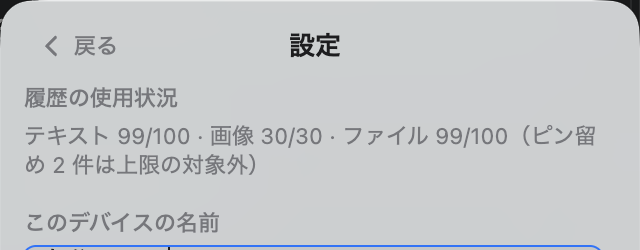
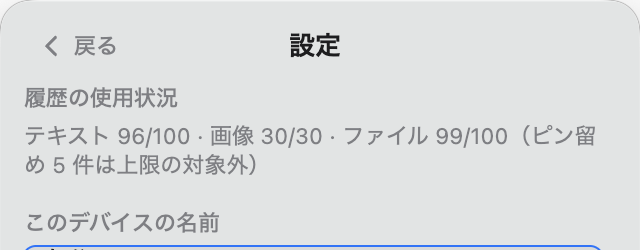
Enhance pinned items functionality and update portfolio files
- Added functionality to pin frequently referenced items such as QA account, payment API key, and Wi-Fi password in main.js.
- Updated index.html and portfolio files with additional document entries, including various reports, invoices, and design guidelines.
- Updated binary image files in public and portfolio directories.

diff --git a/site/portfolio/index.html b/site/portfolio/index.html
@@ -550,7 +550,75 @@
     { group: '9月12日 (土)', kind: 'file', name: '検収書_9月分.pdf', meta: 'PDF書類 · 13:01', icon: ICON_DIR + 'file-pdf.png', device: '自宅iMac', copy: '検収書_9月分.pdf' },
     { group: '9月11日 (金)', kind: 'file', name: '議事録_商店会訪問.txt', meta: '標準テキスト書類 · 12:01', icon: ICON_DIR + 'file-txt.png', device: '自宅iMac', copy: '議事録_商店会訪問.txt' },
     { group: '9月10日 (木)', kind: 'file', name: 'リリースノート_v1.2.txt', meta: '標準テキスト書類 · 17:01', icon: ICON_DIR + 'file-txt.png', device: '会社用PC', copy: 'リリースノート_v1.2.txt' },
-    { group: '9月10日 (木)', kind: 'file', name: '提案資料_リニューアル方針.pptx', meta: 'PowerPoint プレゼンテーション (.pptx) · 15:01', icon: ICON_DIR + 'file-pptx.png', copy: '提案資料_リニューアル方針.pptx' }
+    { group: '9月10日 (木)', kind: 'file', name: '提案資料_リニューアル方針.pptx', meta: 'PowerPoint プレゼンテーション (.pptx) · 15:01', icon: ICON_DIR + 'file-pptx.png', copy: '提案資料_リニューアル方針.pptx' },
+    { group: "8月31日 (月)", kind: 'file', name: "障害報告書_0820.docx", meta: "Microsoft Word document (.docx) · 20:54", icon: ICON_DIR + "file-docx.png", copy: "障害報告書_0820.docx" },
+    { group: "8月31日 (月)", kind: 'file', name: "請求書_9月.pdf", meta: "PDF書類 · 18:54", icon: ICON_DIR + "file-pdf.png", device: '会社用PC', copy: "請求書_9月.pdf" },
+    { group: "8月31日 (月)", kind: 'file', name: "デザインガイドライン_v1.5.pdf", meta: "PDF書類 · 15:54", icon: ICON_DIR + "file-pdf.png", device: '自宅iMac', copy: "デザインガイドライン_v1.5.pdf" },
+    { group: "8月31日 (月)", kind: 'file', name: "週次レポート_W36.pptx", meta: "PowerPoint プレゼンテーション (.pptx) · 14:54", icon: ICON_DIR + "file-pptx.png", copy: "週次レポート_W36.pptx" },
+    { group: "8月31日 (月)", kind: 'file', name: "見積比較_他社_初回版.xlsx", meta: "Microsoft Excel Workbook (.xlsx) · 10:54", icon: ICON_DIR + "file-xlsx.png", device: '会社用PC', copy: "見積比較_他社_初回版.xlsx" },
+    { group: "8月31日 (月)", kind: 'file', name: "テスト仕様書_カート機能.xlsx", meta: "Microsoft Excel Workbook (.xlsx) · 07:54", icon: ICON_DIR + "file-xlsx.png", device: '自宅iMac', copy: "テスト仕様書_カート機能.xlsx" },
+    { group: "8月30日 (日)", kind: 'file', name: "APIキー管理表.xlsx", meta: "Microsoft Excel Workbook (.xlsx) · 20:54", icon: ICON_DIR + "file-xlsx.png", copy: "APIキー管理表.xlsx" },
+    { group: "8月30日 (日)", kind: 'file', name: "障害報告書_0828.docx", meta: "Microsoft Word document (.docx) · 17:54", icon: ICON_DIR + "file-docx.png", device: '会社用PC', copy: "障害報告書_0828.docx" },
+    { group: "8月30日 (日)", kind: 'file', name: "契約更新のご案内_下書き.docx", meta: "Microsoft Word document (.docx) · 14:54", icon: ICON_DIR + "file-docx.png", device: '自宅iMac', copy: "契約更新のご案内_下書き.docx" },
+    { group: "8月30日 (日)", kind: 'file', name: "リリースノート_v1.1.txt", meta: "標準テキスト書類 · 12:54", icon: ICON_DIR + "file-txt.png", copy: "リリースノート_v1.1.txt" },
+    { group: "8月30日 (日)", kind: 'file', name: "請求書送付リスト_9月.xlsx", meta: "Microsoft Excel Workbook (.xlsx) · 09:54", icon: ICON_DIR + "file-xlsx.png", device: '会社用PC', copy: "請求書送付リスト_9月.xlsx" },
+    { group: "8月30日 (日)", kind: 'file', name: "プロジェクト計画書_v1.pptx", meta: "PowerPoint プレゼンテーション (.pptx) · 06:54", icon: ICON_DIR + "file-pptx.png", device: '自宅iMac', copy: "プロジェクト計画書_v1.pptx" },
+    { group: "8月29日 (土)", kind: 'file', name: "バックアップ手順.txt", meta: "標準テキスト書類 · 20:54", icon: ICON_DIR + "file-txt.png", copy: "バックアップ手順.txt" },
+    { group: "8月29日 (土)", kind: 'file', name: "契約書_業務委託_旧版.docx", meta: "Microsoft Word document (.docx) · 16:54", icon: ICON_DIR + "file-docx.png", device: '会社用PC', copy: "契約書_業務委託_旧版.docx" },
+    { group: "8月29日 (土)", kind: 'file', name: "顧客リスト_8月版.xlsx", meta: "Microsoft Excel Workbook (.xlsx) · 13:54", icon: ICON_DIR + "file-xlsx.png", device: '自宅iMac', copy: "顧客リスト_8月版.xlsx" },
+    { group: "8月29日 (土)", kind: 'file', name: "要件定義書_v3.docx", meta: "Microsoft Word document (.docx) · 11:54", icon: ICON_DIR + "file-docx.png", copy: "要件定義書_v3.docx" },
+    { group: "8月29日 (土)", kind: 'file', name: "NDA_秘密保持契約_控え.pdf", meta: "PDF書類 · 08:54", icon: ICON_DIR + "file-pdf.png", device: '会社用PC', copy: "NDA_秘密保持契約_控え.pdf" },
+    { group: "8月29日 (土)", kind: 'file', name: "アイコンセット_v1.png", meta: "PNG画像 · 05:54", thumb: ICON_DIR + "thumb-logo.png", device: '自宅iMac', copy: "アイコンセット_v1.png" },
+    { group: "8月28日 (金)", kind: 'file', name: "画面遷移図.png", meta: "PNG画像 · 20:54", thumb: ICON_DIR + "thumb-banner.png", copy: "画面遷移図.png" },
+    { group: "8月28日 (金)", kind: 'file', name: "経費精算_8月.xlsx", meta: "Microsoft Excel Workbook (.xlsx) · 18:54", icon: ICON_DIR + "file-xlsx.png", device: '会社用PC', copy: "経費精算_8月.xlsx" },
+    { group: "8月28日 (金)", kind: 'file', name: "週次レポート_W35.pptx", meta: "PowerPoint プレゼンテーション (.pptx) · 15:54", icon: ICON_DIR + "file-pptx.png", copy: "週次レポート_W35.pptx" },
+    { group: "8月28日 (金)", kind: 'file', name: "テスト仕様書_検索機能.xlsx", meta: "Microsoft Excel Workbook (.xlsx) · 14:54", icon: ICON_DIR + "file-xlsx.png", device: '自宅iMac', copy: "テスト仕様書_検索機能.xlsx" },
+    { group: "8月28日 (金)", kind: 'file', name: "ロゴ_v3.png", meta: "PNG画像 · 11:54", thumb: ICON_DIR + "thumb-logo.png", device: '会社用PC', copy: "ロゴ_v3.png" },
+    { group: "8月28日 (金)", kind: 'file', name: "契約更新のご案内_最終.docx", meta: "Microsoft Word document (.docx) · 06:54", icon: ICON_DIR + "file-docx.png", device: '自宅iMac', copy: "契約更新のご案内_最終.docx" },
+    { group: "8月27日 (木)", kind: 'file', name: "commit-log_export.txt", meta: "標準テキスト書類 · 20:54", icon: ICON_DIR + "file-txt.png", copy: "commit-log_export.txt" },
+    { group: "8月27日 (木)", kind: 'file', name: "名刺デザイン案_旧.png", meta: "PNG画像 · 17:54", thumb: ICON_DIR + "thumb-banner.png", device: '会社用PC', copy: "名刺デザイン案_旧.png" },
+    { group: "8月27日 (木)", kind: 'file', name: "環境変数一覧_本番.xlsx", meta: "Microsoft Excel Workbook (.xlsx) · 13:54", icon: ICON_DIR + "file-xlsx.png", copy: "環境変数一覧_本番.xlsx" },
+    { group: "8月27日 (木)", kind: 'file', name: "プロジェクト計画書_v2.pptx", meta: "PowerPoint プレゼンテーション (.pptx) · 12:54", icon: ICON_DIR + "file-pptx.png", device: '自宅iMac', copy: "プロジェクト計画書_v2.pptx" },
+    { group: "8月27日 (木)", kind: 'file', name: "請求書_8月.pdf", meta: "PDF書類 · 09:54", icon: ICON_DIR + "file-pdf.png", device: '会社用PC', copy: "請求書_8月.pdf" },
+    { group: "8月27日 (木)", kind: 'file', name: "顧客リスト_7月版.xlsx", meta: "Microsoft Excel Workbook (.xlsx) · 04:54", icon: ICON_DIR + "file-xlsx.png", device: '自宅iMac', copy: "顧客リスト_7月版.xlsx" },
+    { group: "8月26日 (水)", kind: 'file', name: "AIレビュー_コード規約案.txt", meta: "標準テキスト書類 · 20:54", icon: ICON_DIR + "file-txt.png", copy: "AIレビュー_コード規約案.txt" },
+    { group: "8月26日 (水)", kind: 'file', name: "見積比較_他社_最終版.xlsx", meta: "Microsoft Excel Workbook (.xlsx) · 16:54", icon: ICON_DIR + "file-xlsx.png", device: '会社用PC', copy: "見積比較_他社_最終版.xlsx" },
+    { group: "8月26日 (水)", kind: 'file', name: "障害報告書_0806.docx", meta: "Microsoft Word document (.docx) · 14:54", icon: ICON_DIR + "file-docx.png", copy: "障害報告書_0806.docx" },
+    { group: "8月26日 (水)", kind: 'file', name: "Claude_提案文章_ドラフト.txt", meta: "標準テキスト書類 · 13:54", icon: ICON_DIR + "file-txt.png", device: '自宅iMac', copy: "Claude_提案文章_ドラフト.txt" },
+    { group: "8月26日 (水)", kind: 'file', name: "障害報告書_0815.docx", meta: "Microsoft Word document (.docx) · 10:54", icon: ICON_DIR + "file-docx.png", device: '会社用PC', copy: "障害報告書_0815.docx" },
+    { group: "8月26日 (水)", kind: 'file', name: "デザインガイドライン_初版.pdf", meta: "PDF書類 · 05:54", icon: ICON_DIR + "file-pdf.png", device: '自宅iMac', copy: "デザインガイドライン_初版.pdf" },
+    { group: "8月25日 (火)", kind: 'file', name: "見積書_ECサイト改修_v1.pdf", meta: "PDF書類 · 20:54", icon: ICON_DIR + "file-pdf.png", copy: "見積書_ECサイト改修_v1.pdf" },
+    { group: "8月25日 (火)", kind: 'file', name: "VSCode拡張機能_推奨リスト.txt", meta: "標準テキスト書類 · 18:54", icon: ICON_DIR + "file-txt.png", device: '会社用PC', copy: "VSCode拡張機能_推奨リスト.txt" },
+    { group: "8月25日 (火)", kind: 'file', name: "テスト仕様書_ログイン機能.xlsx", meta: "Microsoft Excel Workbook (.xlsx) · 14:54", icon: ICON_DIR + "file-xlsx.png", device: '自宅iMac', copy: "テスト仕様書_ログイン機能.xlsx" },
+    { group: "8月25日 (火)", kind: 'file', name: "負荷試験結果.xlsx", meta: "Microsoft Excel Workbook (.xlsx) · 12:54", icon: ICON_DIR + "file-xlsx.png", copy: "負荷試験結果.xlsx" },
+    { group: "8月25日 (火)", kind: 'file', name: "Claude_議事録要約_0810.txt", meta: "標準テキスト書類 · 11:54", icon: ICON_DIR + "file-txt.png", device: '会社用PC', copy: "Claude_議事録要約_0810.txt" },
+    { group: "8月25日 (火)", kind: 'file', name: "VSCode_settings_export.txt", meta: "標準テキスト書類 · 06:54", icon: ICON_DIR + "file-txt.png", device: '自宅iMac', copy: "VSCode_settings_export.txt" },
+    { group: "8月24日 (月)", kind: 'file', name: "週次レポート_W34.pptx", meta: "PowerPoint プレゼンテーション (.pptx) · 20:54", icon: ICON_DIR + "file-pptx.png", copy: "週次レポート_W34.pptx" },
+    { group: "8月24日 (月)", kind: 'file', name: "請求書送付リスト_8月.xlsx", meta: "Microsoft Excel Workbook (.xlsx) · 17:54", icon: ICON_DIR + "file-xlsx.png", device: '会社用PC', copy: "請求書送付リスト_8月.xlsx" },
+    { group: "8月24日 (月)", kind: 'file', name: "ChatGPT_文言案_エラーメッセージ.txt", meta: "標準テキスト書類 · 15:54", icon: ICON_DIR + "file-txt.png", copy: "ChatGPT_文言案_エラーメッセージ.txt" },
+    { group: "8月24日 (月)", kind: 'file', name: "プロジェクト計画書_初版.pptx", meta: "PowerPoint プレゼンテーション (.pptx) · 12:54", icon: ICON_DIR + "file-pptx.png", device: '自宅iMac', copy: "プロジェクト計画書_初版.pptx" },
+    { group: "8月24日 (月)", kind: 'file', name: "デザインガイドライン_v1.pdf", meta: "PDF書類 · 09:54", icon: ICON_DIR + "file-pdf.png", device: '会社用PC', copy: "デザインガイドライン_v1.pdf" },
+    { group: "8月24日 (月)", kind: 'file', name: "顧客リスト_6月版.xlsx", meta: "Microsoft Excel Workbook (.xlsx) · 04:54", icon: ICON_DIR + "file-xlsx.png", device: '自宅iMac', copy: "顧客リスト_6月版.xlsx" },
+    { group: "8月23日 (日)", kind: 'file', name: "バナー案_B案.png", meta: "PNG画像 · 20:54", thumb: ICON_DIR + "thumb-logo.png", copy: "バナー案_B案.png" },
+    { group: "8月23日 (日)", kind: 'file', name: "見積書_ECサイト改修_初版.pdf", meta: "PDF書類 · 16:54", icon: ICON_DIR + "file-pdf.png", device: '会社用PC', copy: "見積書_ECサイト改修_初版.pdf" },
+    { group: "8月23日 (日)", kind: 'file', name: "DB設計書_v2.docx", meta: "Microsoft Word document (.docx) · 13:54", icon: ICON_DIR + "file-docx.png", copy: "DB設計書_v2.docx" },
+    { group: "8月23日 (日)", kind: 'file', name: "アイコンセット_v2.png", meta: "PNG画像 · 13:54", thumb: ICON_DIR + "thumb-banner.png", device: '自宅iMac', copy: "アイコンセット_v2.png" },
+    { group: "8月23日 (日)", kind: 'file', name: "NDA_秘密保持契約_下書き.docx", meta: "Microsoft Word document (.docx) · 10:54", icon: ICON_DIR + "file-docx.png", device: '会社用PC', copy: "NDA_秘密保持契約_下書き.docx" },
+    { group: "8月23日 (日)", kind: 'file', name: "ChatGPT_要件整理メモ.txt", meta: "標準テキスト書類 · 05:54", icon: ICON_DIR + "file-txt.png", device: '自宅iMac', copy: "ChatGPT_要件整理メモ.txt" },
+    { group: "8月22日 (土)", kind: 'file', name: "リファクタリング計画.txt", meta: "標準テキスト書類 · 20:54", icon: ICON_DIR + "file-txt.png", copy: "リファクタリング計画.txt" },
+    { group: "8月22日 (土)", kind: 'file', name: "経費精算_7月.xlsx", meta: "Microsoft Excel Workbook (.xlsx) · 18:54", icon: ICON_DIR + "file-xlsx.png", device: '会社用PC', copy: "経費精算_7月.xlsx" },
+    { group: "8月22日 (土)", kind: 'file', name: "テスト仕様書_会員登録.xlsx", meta: "Microsoft Excel Workbook (.xlsx) · 14:54", icon: ICON_DIR + "file-xlsx.png", device: '自宅iMac', copy: "テスト仕様書_会員登録.xlsx" },
+    { group: "8月22日 (土)", kind: 'file', name: "納品リスト_9月.xlsx", meta: "Microsoft Excel Workbook (.xlsx) · 11:54", icon: ICON_DIR + "file-xlsx.png", copy: "納品リスト_9月.xlsx" },
+    { group: "8月22日 (土)", kind: 'file', name: "バナー案_C案.png", meta: "PNG画像 · 11:54", thumb: ICON_DIR + "thumb-logo.png", device: '会社用PC', copy: "バナー案_C案.png" },
+    { group: "8月22日 (土)", kind: 'file', name: "契約書_業務委託_ドラフト.docx", meta: "Microsoft Word document (.docx) · 06:54", icon: ICON_DIR + "file-docx.png", device: '自宅iMac', copy: "契約書_業務委託_ドラフト.docx" },
+    { group: "8月21日 (金)", kind: 'file', name: "週次レポート_W33.pptx", meta: "PowerPoint プレゼンテーション (.pptx) · 20:54", icon: ICON_DIR + "file-pptx.png", copy: "週次レポート_W33.pptx" },
+    { group: "8月21日 (金)", kind: 'file', name: "障害報告書_0801.docx", meta: "Microsoft Word document (.docx) · 17:54", icon: ICON_DIR + "file-docx.png", device: '会社用PC', copy: "障害報告書_0801.docx" },
+    { group: "8月21日 (金)", kind: 'file', name: "プロジェクト計画書_議事録反映版.pptx", meta: "PowerPoint プレゼンテーション (.pptx) · 12:54", icon: ICON_DIR + "file-pptx.png", device: '自宅iMac', copy: "プロジェクト計画書_議事録反映版.pptx" },
+    { group: "8月21日 (金)", kind: 'file', name: "顧客リスト_5月版.xlsx", meta: "Microsoft Excel Workbook (.xlsx) · 04:54", icon: ICON_DIR + "file-xlsx.png", device: '自宅iMac', copy: "顧客リスト_5月版.xlsx" },
+    { group: "8月20日 (木)", kind: 'file', name: "旧ロゴ_v2.png", meta: "PNG画像 · 20:54", thumb: ICON_DIR + "thumb-banner.png", copy: "旧ロゴ_v2.png" },
+    { group: "8月20日 (木)", kind: 'file', name: "請求書_7月.pdf", meta: "PDF書類 · 20:54", icon: ICON_DIR + "file-pdf.png", device: '会社用PC', copy: "請求書_7月.pdf" },
+    { group: "8月20日 (木)", kind: 'file', name: "バナー案_初期検討.png", meta: "PNG画像 · 13:54", thumb: ICON_DIR + "thumb-logo.png", device: '自宅iMac', copy: "バナー案_初期検討.png" },
+    { group: "8月19日 (水)", kind: 'file', name: "引継ぎメモ_初期構築.txt", meta: "標準テキスト書類 · 20:54", icon: ICON_DIR + "file-txt.png", copy: "引継ぎメモ_初期構築.txt" }
   ];
 
   var root = document.getElementById('brd');

diff --git a/site/public/index.html b/site/public/index.html
@@ -459,7 +459,75 @@
     { group: '9月12日 (土)', kind: 'file', name: '検収書_9月分.pdf', meta: 'PDF書類 · 13:01', icon: ICON_DIR + 'file-pdf.png', device: '自宅iMac', copy: '検収書_9月分.pdf' },
     { group: '9月11日 (金)', kind: 'file', name: '議事録_商店会訪問.txt', meta: '標準テキスト書類 · 12:01', icon: ICON_DIR + 'file-txt.png', device: '自宅iMac', copy: '議事録_商店会訪問.txt' },
     { group: '9月10日 (木)', kind: 'file', name: 'リリースノート_v1.2.txt', meta: '標準テキスト書類 · 17:01', icon: ICON_DIR + 'file-txt.png', device: '会社用PC', copy: 'リリースノート_v1.2.txt' },
-    { group: '9月10日 (木)', kind: 'file', name: '提案資料_リニューアル方針.pptx', meta: 'PowerPoint プレゼンテーション (.pptx) · 15:01', icon: ICON_DIR + 'file-pptx.png', copy: '提案資料_リニューアル方針.pptx' }
+    { group: '9月10日 (木)', kind: 'file', name: '提案資料_リニューアル方針.pptx', meta: 'PowerPoint プレゼンテーション (.pptx) · 15:01', icon: ICON_DIR + 'file-pptx.png', copy: '提案資料_リニューアル方針.pptx' },
+    { group: "8月31日 (月)", kind: 'file', name: "障害報告書_0820.docx", meta: "Microsoft Word document (.docx) · 20:54", icon: ICON_DIR + "file-docx.png", copy: "障害報告書_0820.docx" },
+    { group: "8月31日 (月)", kind: 'file', name: "請求書_9月.pdf", meta: "PDF書類 · 18:54", icon: ICON_DIR + "file-pdf.png", device: '会社用PC', copy: "請求書_9月.pdf" },
+    { group: "8月31日 (月)", kind: 'file', name: "デザインガイドライン_v1.5.pdf", meta: "PDF書類 · 15:54", icon: ICON_DIR + "file-pdf.png", device: '自宅iMac', copy: "デザインガイドライン_v1.5.pdf" },
+    { group: "8月31日 (月)", kind: 'file', name: "週次レポート_W36.pptx", meta: "PowerPoint プレゼンテーション (.pptx) · 14:54", icon: ICON_DIR + "file-pptx.png", copy: "週次レポート_W36.pptx" },
+    { group: "8月31日 (月)", kind: 'file', name: "見積比較_他社_初回版.xlsx", meta: "Microsoft Excel Workbook (.xlsx) · 10:54", icon: ICON_DIR + "file-xlsx.png", device: '会社用PC', copy: "見積比較_他社_初回版.xlsx" },
+    { group: "8月31日 (月)", kind: 'file', name: "テスト仕様書_カート機能.xlsx", meta: "Microsoft Excel Workbook (.xlsx) · 07:54", icon: ICON_DIR + "file-xlsx.png", device: '自宅iMac', copy: "テスト仕様書_カート機能.xlsx" },
+    { group: "8月30日 (日)", kind: 'file', name: "APIキー管理表.xlsx", meta: "Microsoft Excel Workbook (.xlsx) · 20:54", icon: ICON_DIR + "file-xlsx.png", copy: "APIキー管理表.xlsx" },
+    { group: "8月30日 (日)", kind: 'file', name: "障害報告書_0828.docx", meta: "Microsoft Word document (.docx) · 17:54", icon: ICON_DIR + "file-docx.png", device: '会社用PC', copy: "障害報告書_0828.docx" },
+    { group: "8月30日 (日)", kind: 'file', name: "契約更新のご案内_下書き.docx", meta: "Microsoft Word document (.docx) · 14:54", icon: ICON_DIR + "file-docx.png", device: '自宅iMac', copy: "契約更新のご案内_下書き.docx" },
+    { group: "8月30日 (日)", kind: 'file', name: "リリースノート_v1.1.txt", meta: "標準テキスト書類 · 12:54", icon: ICON_DIR + "file-txt.png", copy: "リリースノート_v1.1.txt" },
+    { group: "8月30日 (日)", kind: 'file', name: "請求書送付リスト_9月.xlsx", meta: "Microsoft Excel Workbook (.xlsx) · 09:54", icon: ICON_DIR + "file-xlsx.png", device: '会社用PC', copy: "請求書送付リスト_9月.xlsx" },
+    { group: "8月30日 (日)", kind: 'file', name: "プロジェクト計画書_v1.pptx", meta: "PowerPoint プレゼンテーション (.pptx) · 06:54", icon: ICON_DIR + "file-pptx.png", device: '自宅iMac', copy: "プロジェクト計画書_v1.pptx" },
+    { group: "8月29日 (土)", kind: 'file', name: "バックアップ手順.txt", meta: "標準テキスト書類 · 20:54", icon: ICON_DIR + "file-txt.png", copy: "バックアップ手順.txt" },
+    { group: "8月29日 (土)", kind: 'file', name: "契約書_業務委託_旧版.docx", meta: "Microsoft Word document (.docx) · 16:54", icon: ICON_DIR + "file-docx.png", device: '会社用PC', copy: "契約書_業務委託_旧版.docx" },
+    { group: "8月29日 (土)", kind: 'file', name: "顧客リスト_8月版.xlsx", meta: "Microsoft Excel Workbook (.xlsx) · 13:54", icon: ICON_DIR + "file-xlsx.png", device: '自宅iMac', copy: "顧客リスト_8月版.xlsx" },
+    { group: "8月29日 (土)", kind: 'file', name: "要件定義書_v3.docx", meta: "Microsoft Word document (.docx) · 11:54", icon: ICON_DIR + "file-docx.png", copy: "要件定義書_v3.docx" },
+    { group: "8月29日 (土)", kind: 'file', name: "NDA_秘密保持契約_控え.pdf", meta: "PDF書類 · 08:54", icon: ICON_DIR + "file-pdf.png", device: '会社用PC', copy: "NDA_秘密保持契約_控え.pdf" },
+    { group: "8月29日 (土)", kind: 'file', name: "アイコンセット_v1.png", meta: "PNG画像 · 05:54", thumb: ICON_DIR + "thumb-logo.png", device: '自宅iMac', copy: "アイコンセット_v1.png" },
+    { group: "8月28日 (金)", kind: 'file', name: "画面遷移図.png", meta: "PNG画像 · 20:54", thumb: ICON_DIR + "thumb-banner.png", copy: "画面遷移図.png" },
+    { group: "8月28日 (金)", kind: 'file', name: "経費精算_8月.xlsx", meta: "Microsoft Excel Workbook (.xlsx) · 18:54", icon: ICON_DIR + "file-xlsx.png", device: '会社用PC', copy: "経費精算_8月.xlsx" },
+    { group: "8月28日 (金)", kind: 'file', name: "週次レポート_W35.pptx", meta: "PowerPoint プレゼンテーション (.pptx) · 15:54", icon: ICON_DIR + "file-pptx.png", copy: "週次レポート_W35.pptx" },
+    { group: "8月28日 (金)", kind: 'file', name: "テスト仕様書_検索機能.xlsx", meta: "Microsoft Excel Workbook (.xlsx) · 14:54", icon: ICON_DIR + "file-xlsx.png", device: '自宅iMac', copy: "テスト仕様書_検索機能.xlsx" },
+    { group: "8月28日 (金)", kind: 'file', name: "ロゴ_v3.png", meta: "PNG画像 · 11:54", thumb: ICON_DIR + "thumb-logo.png", device: '会社用PC', copy: "ロゴ_v3.png" },
+    { group: "8月28日 (金)", kind: 'file', name: "契約更新のご案内_最終.docx", meta: "Microsoft Word document (.docx) · 06:54", icon: ICON_DIR + "file-docx.png", device: '自宅iMac', copy: "契約更新のご案内_最終.docx" },
+    { group: "8月27日 (木)", kind: 'file', name: "commit-log_export.txt", meta: "標準テキスト書類 · 20:54", icon: ICON_DIR + "file-txt.png", copy: "commit-log_export.txt" },
+    { group: "8月27日 (木)", kind: 'file', name: "名刺デザイン案_旧.png", meta: "PNG画像 · 17:54", thumb: ICON_DIR + "thumb-banner.png", device: '会社用PC', copy: "名刺デザイン案_旧.png" },
+    { group: "8月27日 (木)", kind: 'file', name: "環境変数一覧_本番.xlsx", meta: "Microsoft Excel Workbook (.xlsx) · 13:54", icon: ICON_DIR + "file-xlsx.png", copy: "環境変数一覧_本番.xlsx" },
+    { group: "8月27日 (木)", kind: 'file', name: "プロジェクト計画書_v2.pptx", meta: "PowerPoint プレゼンテーション (.pptx) · 12:54", icon: ICON_DIR + "file-pptx.png", device: '自宅iMac', copy: "プロジェクト計画書_v2.pptx" },
+    { group: "8月27日 (木)", kind: 'file', name: "請求書_8月.pdf", meta: "PDF書類 · 09:54", icon: ICON_DIR + "file-pdf.png", device: '会社用PC', copy: "請求書_8月.pdf" },
+    { group: "8月27日 (木)", kind: 'file', name: "顧客リスト_7月版.xlsx", meta: "Microsoft Excel Workbook (.xlsx) · 04:54", icon: ICON_DIR + "file-xlsx.png", device: '自宅iMac', copy: "顧客リスト_7月版.xlsx" },
+    { group: "8月26日 (水)", kind: 'file', name: "AIレビュー_コード規約案.txt", meta: "標準テキスト書類 · 20:54", icon: ICON_DIR + "file-txt.png", copy: "AIレビュー_コード規約案.txt" },
+    { group: "8月26日 (水)", kind: 'file', name: "見積比較_他社_最終版.xlsx", meta: "Microsoft Excel Workbook (.xlsx) · 16:54", icon: ICON_DIR + "file-xlsx.png", device: '会社用PC', copy: "見積比較_他社_最終版.xlsx" },
+    { group: "8月26日 (水)", kind: 'file', name: "障害報告書_0806.docx", meta: "Microsoft Word document (.docx) · 14:54", icon: ICON_DIR + "file-docx.png", copy: "障害報告書_0806.docx" },
+    { group: "8月26日 (水)", kind: 'file', name: "Claude_提案文章_ドラフト.txt", meta: "標準テキスト書類 · 13:54", icon: ICON_DIR + "file-txt.png", device: '自宅iMac', copy: "Claude_提案文章_ドラフト.txt" },
+    { group: "8月26日 (水)", kind: 'file', name: "障害報告書_0815.docx", meta: "Microsoft Word document (.docx) · 10:54", icon: ICON_DIR + "file-docx.png", device: '会社用PC', copy: "障害報告書_0815.docx" },
+    { group: "8月26日 (水)", kind: 'file', name: "デザインガイドライン_初版.pdf", meta: "PDF書類 · 05:54", icon: ICON_DIR + "file-pdf.png", device: '自宅iMac', copy: "デザインガイドライン_初版.pdf" },
+    { group: "8月25日 (火)", kind: 'file', name: "見積書_ECサイト改修_v1.pdf", meta: "PDF書類 · 20:54", icon: ICON_DIR + "file-pdf.png", copy: "見積書_ECサイト改修_v1.pdf" },
+    { group: "8月25日 (火)", kind: 'file', name: "VSCode拡張機能_推奨リスト.txt", meta: "標準テキスト書類 · 18:54", icon: ICON_DIR + "file-txt.png", device: '会社用PC', copy: "VSCode拡張機能_推奨リスト.txt" },
+    { group: "8月25日 (火)", kind: 'file', name: "テスト仕様書_ログイン機能.xlsx", meta: "Microsoft Excel Workbook (.xlsx) · 14:54", icon: ICON_DIR + "file-xlsx.png", device: '自宅iMac', copy: "テスト仕様書_ログイン機能.xlsx" },
+    { group: "8月25日 (火)", kind: 'file', name: "負荷試験結果.xlsx", meta: "Microsoft Excel Workbook (.xlsx) · 12:54", icon: ICON_DIR + "file-xlsx.png", copy: "負荷試験結果.xlsx" },
+    { group: "8月25日 (火)", kind: 'file', name: "Claude_議事録要約_0810.txt", meta: "標準テキスト書類 · 11:54", icon: ICON_DIR + "file-txt.png", device: '会社用PC', copy: "Claude_議事録要約_0810.txt" },
+    { group: "8月25日 (火)", kind: 'file', name: "VSCode_settings_export.txt", meta: "標準テキスト書類 · 06:54", icon: ICON_DIR + "file-txt.png", device: '自宅iMac', copy: "VSCode_settings_export.txt" },
+    { group: "8月24日 (月)", kind: 'file', name: "週次レポート_W34.pptx", meta: "PowerPoint プレゼンテーション (.pptx) · 20:54", icon: ICON_DIR + "file-pptx.png", copy: "週次レポート_W34.pptx" },
+    { group: "8月24日 (月)", kind: 'file', name: "請求書送付リスト_8月.xlsx", meta: "Microsoft Excel Workbook (.xlsx) · 17:54", icon: ICON_DIR + "file-xlsx.png", device: '会社用PC', copy: "請求書送付リスト_8月.xlsx" },
+    { group: "8月24日 (月)", kind: 'file', name: "ChatGPT_文言案_エラーメッセージ.txt", meta: "標準テキスト書類 · 15:54", icon: ICON_DIR + "file-txt.png", copy: "ChatGPT_文言案_エラーメッセージ.txt" },
+    { group: "8月24日 (月)", kind: 'file', name: "プロジェクト計画書_初版.pptx", meta: "PowerPoint プレゼンテーション (.pptx) · 12:54", icon: ICON_DIR + "file-pptx.png", device: '自宅iMac', copy: "プロジェクト計画書_初版.pptx" },
+    { group: "8月24日 (月)", kind: 'file', name: "デザインガイドライン_v1.pdf", meta: "PDF書類 · 09:54", icon: ICON_DIR + "file-pdf.png", device: '会社用PC', copy: "デザインガイドライン_v1.pdf" },
+    { group: "8月24日 (月)", kind: 'file', name: "顧客リスト_6月版.xlsx", meta: "Microsoft Excel Workbook (.xlsx) · 04:54", icon: ICON_DIR + "file-xlsx.png", device: '自宅iMac', copy: "顧客リスト_6月版.xlsx" },
+    { group: "8月23日 (日)", kind: 'file', name: "バナー案_B案.png", meta: "PNG画像 · 20:54", thumb: ICON_DIR + "thumb-logo.png", copy: "バナー案_B案.png" },
+    { group: "8月23日 (日)", kind: 'file', name: "見積書_ECサイト改修_初版.pdf", meta: "PDF書類 · 16:54", icon: ICON_DIR + "file-pdf.png", device: '会社用PC', copy: "見積書_ECサイト改修_初版.pdf" },
+    { group: "8月23日 (日)", kind: 'file', name: "DB設計書_v2.docx", meta: "Microsoft Word document (.docx) · 13:54", icon: ICON_DIR + "file-docx.png", copy: "DB設計書_v2.docx" },
+    { group: "8月23日 (日)", kind: 'file', name: "アイコンセット_v2.png", meta: "PNG画像 · 13:54", thumb: ICON_DIR + "thumb-banner.png", device: '自宅iMac', copy: "アイコンセット_v2.png" },
+    { group: "8月23日 (日)", kind: 'file', name: "NDA_秘密保持契約_下書き.docx", meta: "Microsoft Word document (.docx) · 10:54", icon: ICON_DIR + "file-docx.png", device: '会社用PC', copy: "NDA_秘密保持契約_下書き.docx" },
+    { group: "8月23日 (日)", kind: 'file', name: "ChatGPT_要件整理メモ.txt", meta: "標準テキスト書類 · 05:54", icon: ICON_DIR + "file-txt.png", device: '自宅iMac', copy: "ChatGPT_要件整理メモ.txt" },
+    { group: "8月22日 (土)", kind: 'file', name: "リファクタリング計画.txt", meta: "標準テキスト書類 · 20:54", icon: ICON_DIR + "file-txt.png", copy: "リファクタリング計画.txt" },
+    { group: "8月22日 (土)", kind: 'file', name: "経費精算_7月.xlsx", meta: "Microsoft Excel Workbook (.xlsx) · 18:54", icon: ICON_DIR + "file-xlsx.png", device: '会社用PC', copy: "経費精算_7月.xlsx" },
+    { group: "8月22日 (土)", kind: 'file', name: "テスト仕様書_会員登録.xlsx", meta: "Microsoft Excel Workbook (.xlsx) · 14:54", icon: ICON_DIR + "file-xlsx.png", device: '自宅iMac', copy: "テスト仕様書_会員登録.xlsx" },
+    { group: "8月22日 (土)", kind: 'file', name: "納品リスト_9月.xlsx", meta: "Microsoft Excel Workbook (.xlsx) · 11:54", icon: ICON_DIR + "file-xlsx.png", copy: "納品リスト_9月.xlsx" },
+    { group: "8月22日 (土)", kind: 'file', name: "バナー案_C案.png", meta: "PNG画像 · 11:54", thumb: ICON_DIR + "thumb-logo.png", device: '会社用PC', copy: "バナー案_C案.png" },
+    { group: "8月22日 (土)", kind: 'file', name: "契約書_業務委託_ドラフト.docx", meta: "Microsoft Word document (.docx) · 06:54", icon: ICON_DIR + "file-docx.png", device: '自宅iMac', copy: "契約書_業務委託_ドラフト.docx" },
+    { group: "8月21日 (金)", kind: 'file', name: "週次レポート_W33.pptx", meta: "PowerPoint プレゼンテーション (.pptx) · 20:54", icon: ICON_DIR + "file-pptx.png", copy: "週次レポート_W33.pptx" },
+    { group: "8月21日 (金)", kind: 'file', name: "障害報告書_0801.docx", meta: "Microsoft Word document (.docx) · 17:54", icon: ICON_DIR + "file-docx.png", device: '会社用PC', copy: "障害報告書_0801.docx" },
+    { group: "8月21日 (金)", kind: 'file', name: "プロジェクト計画書_議事録反映版.pptx", meta: "PowerPoint プレゼンテーション (.pptx) · 12:54", icon: ICON_DIR + "file-pptx.png", device: '自宅iMac', copy: "プロジェクト計画書_議事録反映版.pptx" },
+    { group: "8月21日 (金)", kind: 'file', name: "顧客リスト_5月版.xlsx", meta: "Microsoft Excel Workbook (.xlsx) · 04:54", icon: ICON_DIR + "file-xlsx.png", device: '自宅iMac', copy: "顧客リスト_5月版.xlsx" },
+    { group: "8月20日 (木)", kind: 'file', name: "旧ロゴ_v2.png", meta: "PNG画像 · 20:54", thumb: ICON_DIR + "thumb-banner.png", copy: "旧ロゴ_v2.png" },
+    { group: "8月20日 (木)", kind: 'file', name: "請求書_7月.pdf", meta: "PDF書類 · 20:54", icon: ICON_DIR + "file-pdf.png", device: '会社用PC', copy: "請求書_7月.pdf" },
+    { group: "8月20日 (木)", kind: 'file', name: "バナー案_初期検討.png", meta: "PNG画像 · 13:54", thumb: ICON_DIR + "thumb-logo.png", device: '自宅iMac', copy: "バナー案_初期検討.png" },
+    { group: "8月19日 (水)", kind: 'file', name: "引継ぎメモ_初期構築.txt", meta: "標準テキスト書類 · 20:54", icon: ICON_DIR + "file-txt.png", copy: "引継ぎメモ_初期構築.txt" }
   ];
 
   var root = document.getElementById('brd');

diff --git a/main.js b/main.js
@@ -4331,6 +4331,15 @@ app.whenReady().then(() => {
                 signature.pinned = true;
                 signature.customTitle = 'メール署名（社内向け）';
               }
+              // 見積書・署名以外にも「頻繁に参照/送信する」定番アイテムを2〜3件ピン留めする
+              // (QA用ログイン、決済APIキー、Wi-Fiパスワードのように毎回コピペし直す類のもの)
+              const findText = (keyword) => items.find((it) => it.kind === 'clip-text' && it.text && it.text.includes(keyword));
+              const qaAccount = findText('テストアカウント: qa-user01');
+              if (qaAccount) qaAccount.pinned = true;
+              const paymentKey = findText('sk_test_xxxxxxxx');
+              if (paymentKey) paymentKey.pinned = true;
+              const wifi = findText('Wi-Fiパスワード: sample-wifi');
+              if (wifi) wifi.pinned = true;
               render();
             })();
           `);
